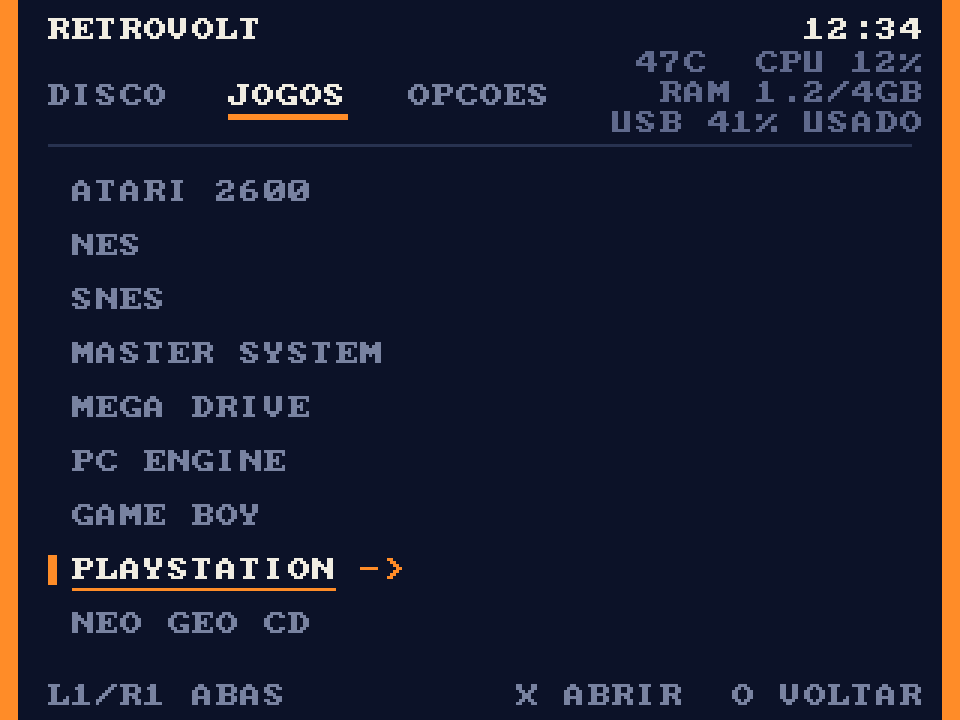
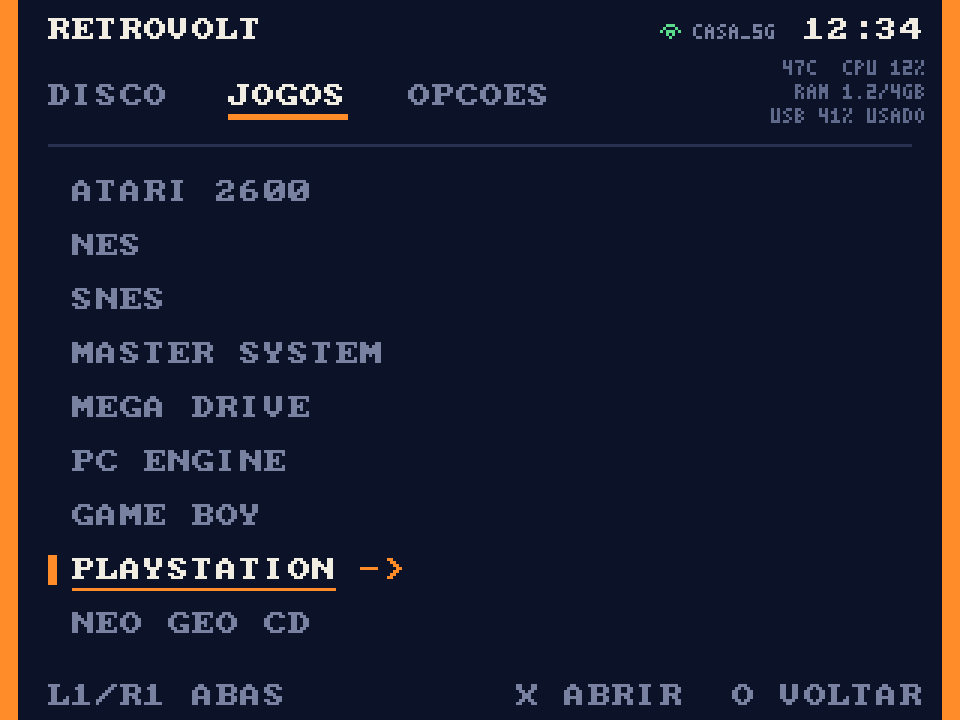
RETROVOLT Pi: Wi-Fi ao lado do relogio e status em fonte pequena 3x5
Claude-Session: https://claude.ai/code/session_013oXuvB1yyyPjaNDGtAhqEA

Changed region(s): [[0.625, 0.0306, 0.9688, 0.1833]]

diff --git a/retrovolt-pi/mockup/tiny.py b/retrovolt-pi/mockup/tiny.py
@@ -1,0 +1,27 @@
+# fonte 3x5 (cada glifo: 5 linhas de 3 bits)
+T={
+'0':["###","#.#","#.#","#.#","###"],'1':[".#.","##.",".#.",".#.","###"],'2':["###","..#","###","#..","###"],
+'3':["###","..#",".##","..#","###"],'4':["#.#","#.#","###","..#","..#"],'5':["###","#..","###","..#","###"],
+'6':["###","#..","###","#.#","###"],'7':["###","..#",".#.",".#.",".#."],'8':["###","#.#","###","#.#","###"],
+'9':["###","#.#","###","..#","###"],
+'A':[".#.","#.#","###","#.#","#.#"],'B':["##.","#.#","##.","#.#","##."],'C':[".##","#..","#..","#..",".##"],
+'D':["##.","#.#","#.#","#.#","##."],'E':["###","#..","##.","#..","###"],'F':["###","#..","##.","#..","#.."],
+'G':[".##","#..","#.#","#.#",".##"],'H':["#.#","#.#","###","#.#","#.#"],'I':["###",".#.",".#.",".#.","###"],
+'J':["..#","..#","..#","#.#",".#."],'K':["#.#","#.#","##.","#.#","#.#"],'L':["#..","#..","#..","#..","###"],
+'M':["#.#","###","###","#.#","#.#"],'N':["##.","#.#","#.#","#.#","#.#"],'O':[".#.","#.#","#.#","#.#",".#."],
+'P':["##.","#.#","##.","#..","#.."],'Q':[".#.","#.#","#.#","##.",".##"],'R':["##.","#.#","##.","#.#","#.#"],
+'S':[".##","#..",".#.","..#","##."],'T':["###",".#.",".#.",".#.",".#."],'U':["#.#","#.#","#.#","#.#","###"],
+'V':["#.#","#.#","#.#","#.#",".#."],'W':["#.#","#.#","###","###","#.#"],'X':["#.#","#.#",".#.","#.#","#.#"],
+'Y':["#.#","#.#",".#.",".#.",".#."],'Z':["###","..#",".#.","#..","###"],
+' ':["...","...","...","...","..."],'%':["#.#","..#",".#.","#..","#.#"],'.':["...","...","...","...",".#."],
+'/':["..#","..#",".#.","#..","#.."],':':["...",".#.","...",".#.","..."],'_':["...","...","...","...","###"],
+'-':["...","...","###","...","..."],
+}
+def stxt(c,x,y,s,col):
+    for i,ch in enumerate(s):
+        g=T.get(ch.upper(),T[' '])
+        for r,row in enumerate(g):
+            for k,v in enumerate(row):
+                if v=='#': c.p(x+i*4+k,y+r,col)
+def rstxt(c,x,y,s,col): stxt(c,x-len(s)*4+1,y,s,col)
+WIFI=["..###..",".#...#.","#.###.#","..#.#..","...#..."]

diff --git a/retrovolt-pi/mockup/themeF.py b/retrovolt-pi/mockup/themeF.py
@@ -1,14 +1,22 @@
 import sys
 exec(open(sys.argv[2]).read().split("# ===================== D: VIDRO")[0].replace("exec(open(sys.argv[2]).read()","exec(open(sys.argv[3]).read()"))
 OUT=sys.argv[1]
+exec(open(sys.argv[3].replace('themes.py','tiny.py')).read())
 NAV=(12,18,40); OR=(255,140,40); IV=(240,236,225); SL=(120,130,160)
 def editF(tab, foot_r):
     c=C(NAV)
     c.rect(0,0,6,H,OR); c.rect(W-6,0,6,H,OR)
     c.txt(16,6,"RETROVOLT",IV); c.rtxt(W-12,6,"12:34",IV)
-    c.rtxt(W-12,17,"47C  CPU 12%",(95,105,140))
-    c.rtxt(W-12,27,"RAM 1.2/4GB",(95,105,140))
-    c.rtxt(W-12,37,"USB 41% USADO",(95,105,140))
+    INF=(95,105,140)
+    # Wi-Fi ao lado do relogio
+    wx=W-12-5*8-10-7*4
+    rstxt(c,W-12-5*8-10,8,"CASA_5G",SL)
+    for r,row in enumerate(WIFI):
+        for k,v in enumerate(row):
+            if v=='#': c.p(wx-10+k,8+r,(90,220,140))
+    rstxt(c,W-12,20,"47C  CPU 12%",INF)
+    rstxt(c,W-12,28,"RAM 1.2/4GB",INF)
+    rstxt(c,W-12,36,"USB 41% USADO",INF)
     x=16
     for n,t in enumerate(TABS):
         on=(n==tab)

diff --git a/retrovolt-pi/DESIGN.md b/retrovolt-pi/DESIGN.md
@@ -9,7 +9,10 @@ HDMI > componente para TV de tubo). Detalhes tecnicos e fases ficam no plano.
   (120,130,160); destaque laranja (255,140,40).
 - Tarja laranja vertical nos DOIS lados da tela.
 - Topo: "RETROVOLT" a esquerda, relogio a direita.
-- Embaixo do relogio (alinhado a direita, cinza mais apagado), 3 linhas:
+- Ao lado (a esquerda) do relogio: icone de Wi-Fi + nome da rede quando
+  conectado; "SEM WI-FI" quando nao conectado. Em fonte pequena (3x5).
+- Embaixo do relogio (alinhado a direita, cinza mais apagado, fonte pequena
+  3x5 para nao poluir), 3 linhas:
   temperatura + uso da CPU ("47C  CPU 12%"), memoria ("RAM 1.2/4GB") e o
   dispositivo de jogos com o espaco usado ("USB 41% USADO" ou "SD ...").
   O dispositivo (SD ou pendrive) e escolhido em OPCOES > PASTAS DE JOGOS.
